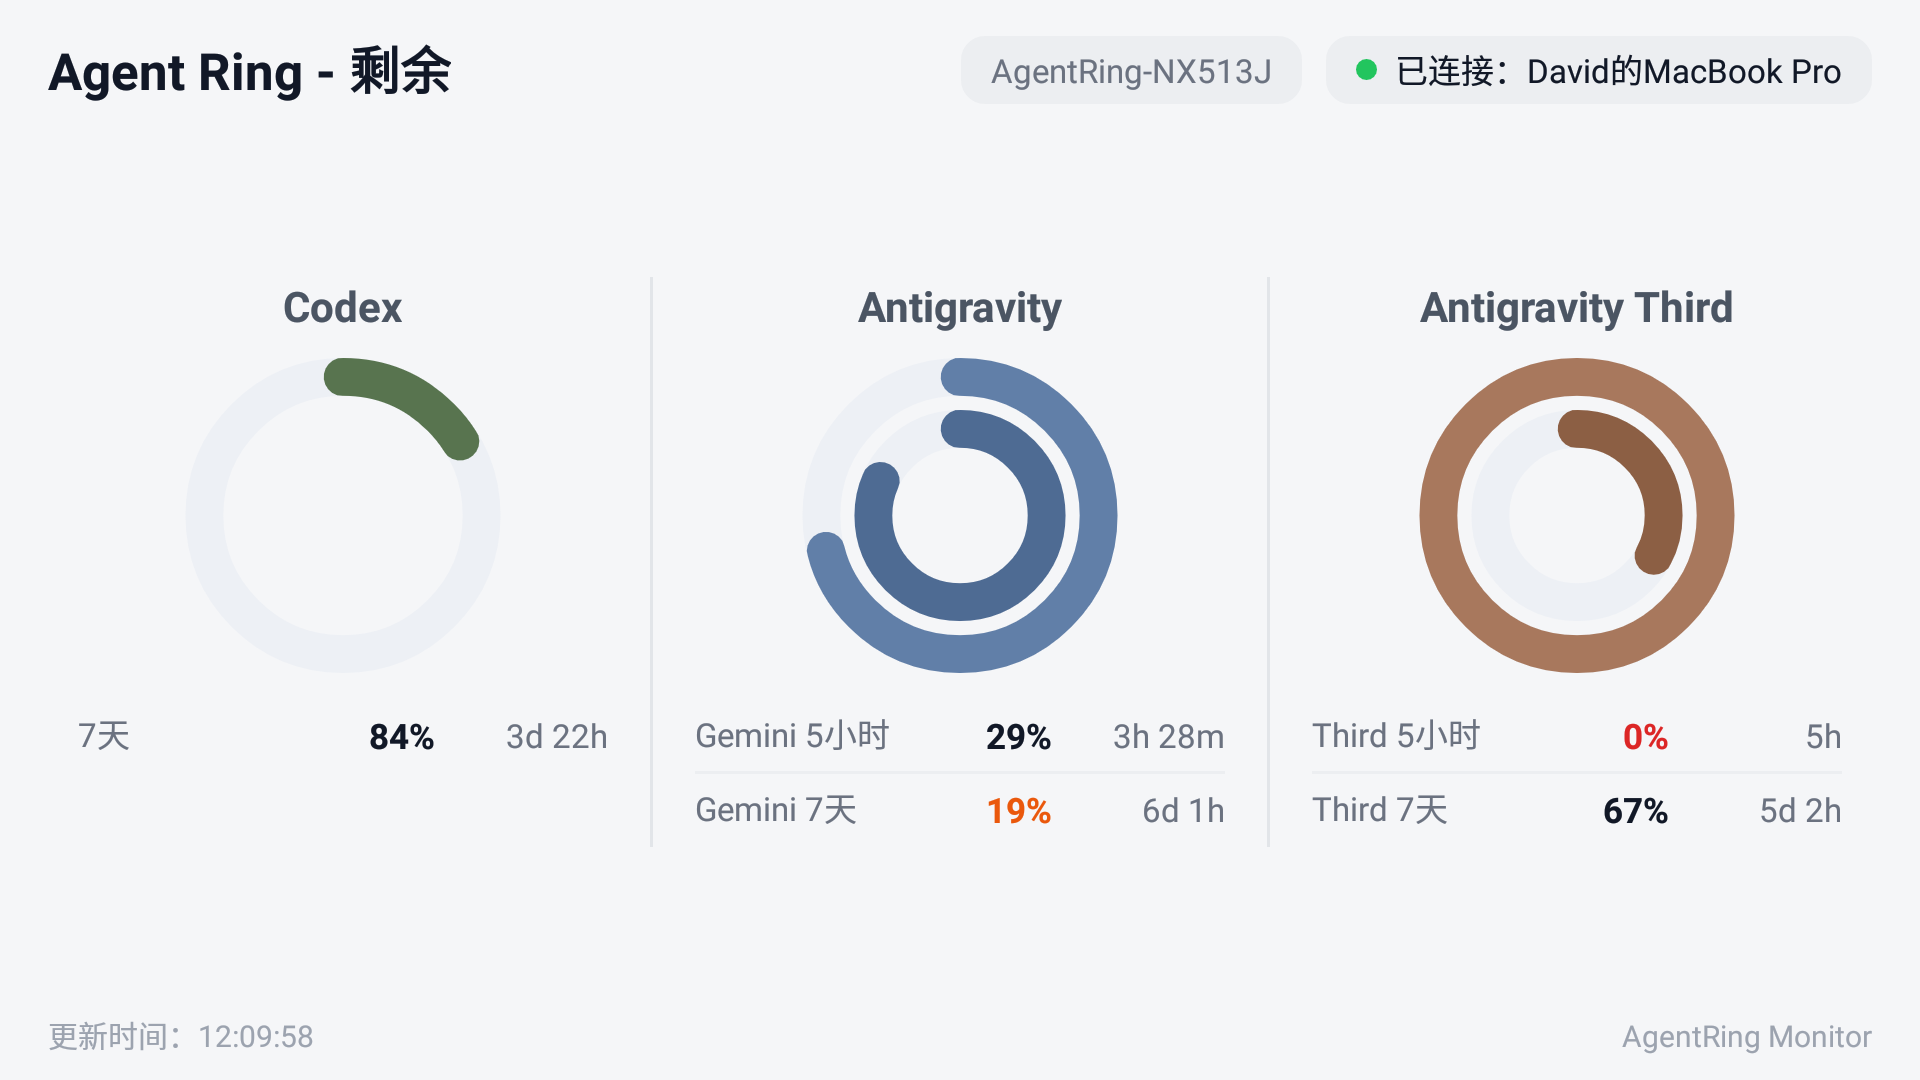
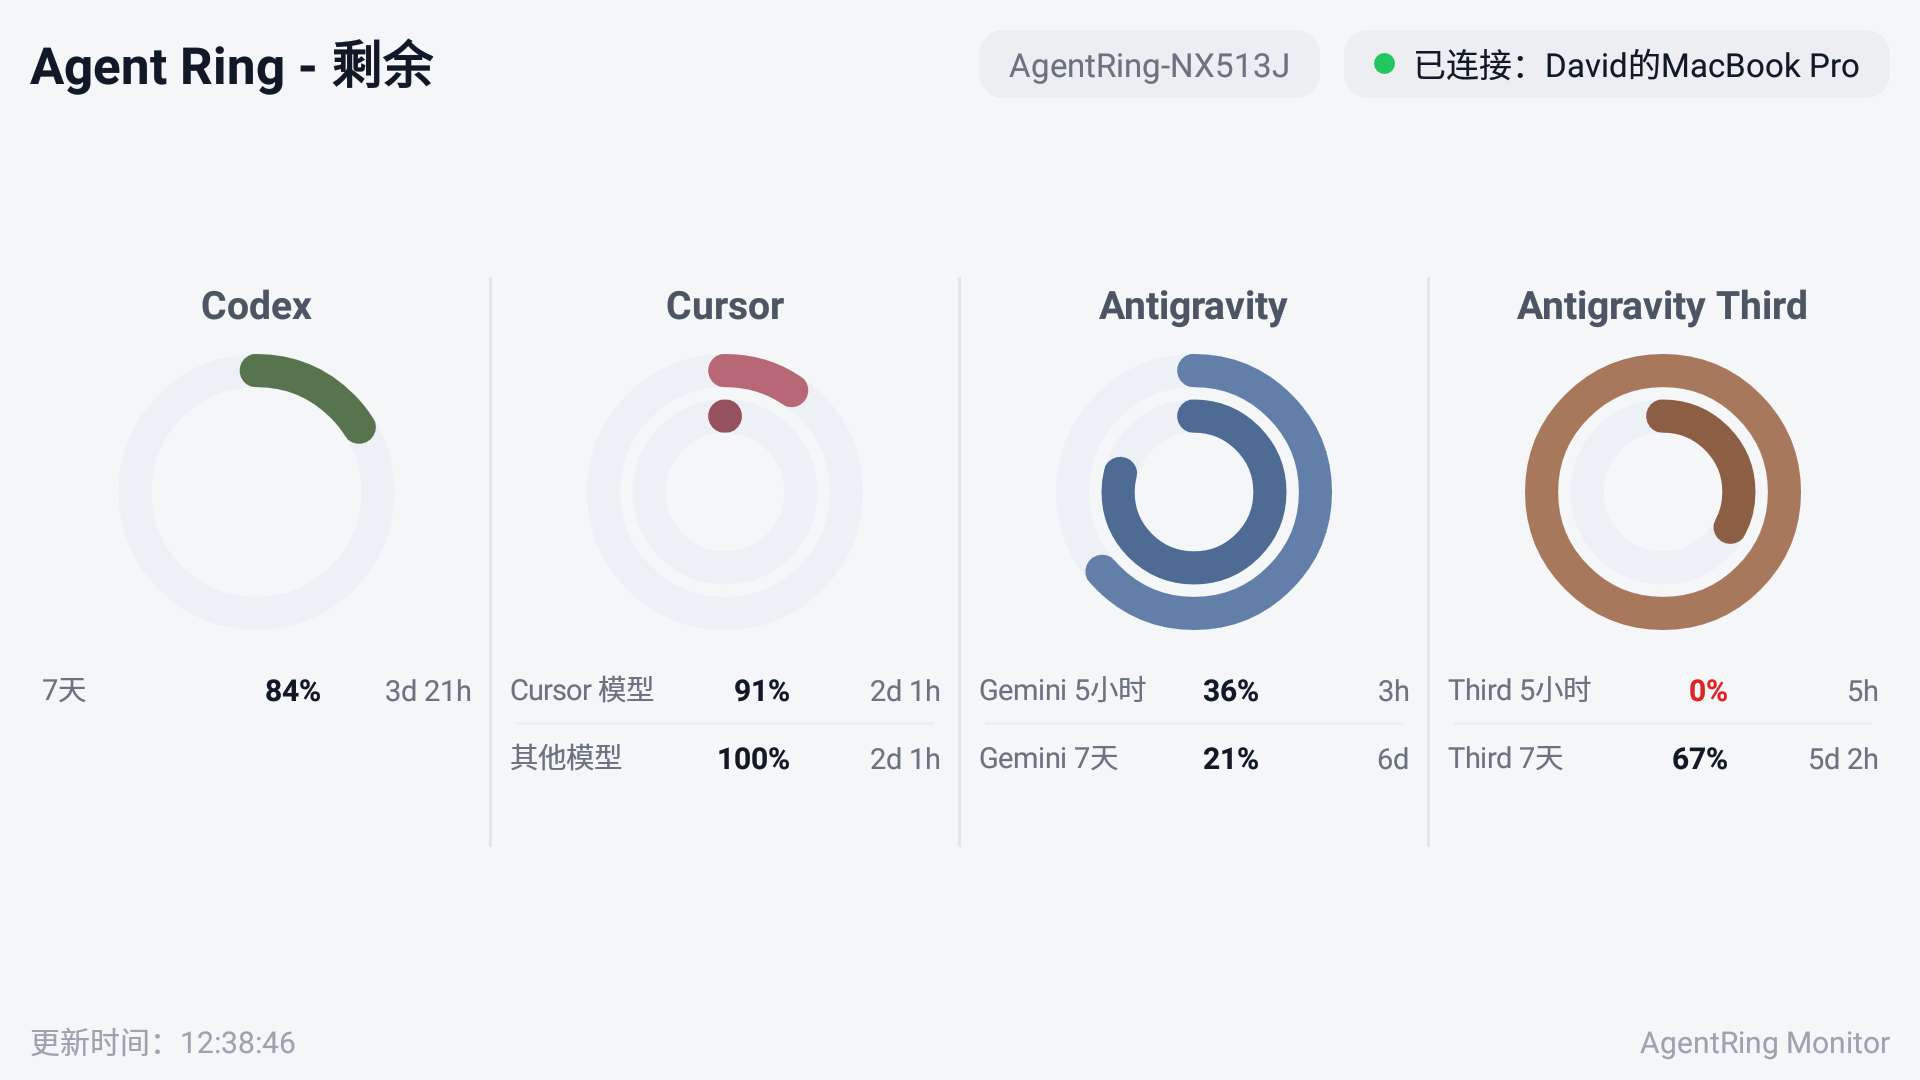
perf: add state change detection, spring animation, and optimize 4-column spacing

diff --git a/app/src/main/java/app/agentring/android/ui/MainActivity.kt b/app/src/main/java/app/agentring/android/ui/MainActivity.kt
@@ -177,25 +177,36 @@ class MainActivity : AppCompatActivity(), BluetoothServerManager.Listener {
     }
 
     private var cachedProviders: List<ProviderData> = emptyList()
+    private val activeColumnBindings = mutableListOf<ItemProviderColumnBinding>()
 
     override fun onDataReceived(payload: SyncPayload) {
         val providers = payload.providers
         if (providers.isEmpty()) {
             binding.emptyStateLayout.visibility = View.VISIBLE
             binding.columnsContainer.visibility = View.GONE
+            cachedProviders = emptyList()
+            activeColumnBindings.clear()
             return
         }
 
         binding.emptyStateLayout.visibility = View.GONE
         binding.columnsContainer.visibility = View.VISIBLE
-        binding.lastUpdatedText.text = getString(R.string.last_updated, timeFormat.format(Date()))
 
+        // 状态判断：副屏作为展示设备，只有跟上次数据产生实质变化时，才更新界面与动效
+        if (cachedProviders.isNotEmpty() && providers == cachedProviders) {
+            // 数据未发生任何变化，无需重刷界面，不重跑动画，直接跳过
+            return
+        }
+
+        binding.lastUpdatedText.text = getString(R.string.last_updated, timeFormat.format(Date()))
         renderDashboard(providers)
     }
 
     override fun onConfigurationChanged(newConfig: Configuration) {
         super.onConfigurationChanged(newConfig)
         if (cachedProviders.isNotEmpty()) {
+            // 屏幕旋转时强制重新构建视图排版
+            activeColumnBindings.clear()
             renderDashboard(cachedProviders)
         }
     }
@@ -203,18 +214,12 @@ class MainActivity : AppCompatActivity(), BluetoothServerManager.Listener {
     /**
      * 需求：不要卡片模式，直接绘图分割，不需要交互，全部横向列在界面上，一屏展示所有信息。
      * 根据项目多少决定环的大小，动态缩放以适应屏幕。
+     * 支持列视图直接复用：避免全屏 removeAllViews 导致的重绘闪烁与圆环从 0 冲顶。
      */
     private fun renderDashboard(providers: List<ProviderData>) {
-        cachedProviders = providers
         val container = binding.columnsContainer
-        container.removeAllViews()
-
         val count = providers.size
-        // 根据项目多少决定环高度：
-        // 1项 -> ~140dp
-        // 2项 -> ~120dp
-        // 3项 -> ~105dp
-        // 4项及以上 -> ~92dp
+
         val ringHeightDp = when (count) {
             1 -> 140
             2 -> 120
@@ -222,27 +227,44 @@ class MainActivity : AppCompatActivity(), BluetoothServerManager.Listener {
             else -> 92
         }
 
-        for (i in providers.indices) {
-            val provider = providers[i]
+        // 检查已有列结构是否可直接复用（列数量与厂商 ID 顺序一致）
+        val canReuseViews = activeColumnBindings.size == count &&
+            cachedProviders.map { it.id } == providers.map { it.id }
 
-            // 厂商列之间的细垂直分割线（仿 macOS agentRing ProviderDivider）
-            if (i > 0) {
-                val divider = View(this).apply {
-                    layoutParams = LinearLayout.LayoutParams(dpToPx(1), dpToPx(190)).apply {
-                        gravity = android.view.Gravity.CENTER_VERTICAL
-                        val marginH = dpToPx(4)
-                        leftMargin = marginH
-                        rightMargin = marginH
+        if (!canReuseViews) {
+            container.removeAllViews()
+            activeColumnBindings.clear()
+
+            for (i in providers.indices) {
+                val provider = providers[i]
+
+                // 厂商列之间的细垂直分割线（仿 macOS agentRing ProviderDivider）
+                if (i > 0) {
+                    val divider = View(this).apply {
+                        val marginH = if (count >= 4) dpToPx(2) else dpToPx(4)
+                        layoutParams = LinearLayout.LayoutParams(dpToPx(1), dpToPx(190)).apply {
+                            gravity = android.view.Gravity.CENTER_VERTICAL
+                            leftMargin = marginH
+                            rightMargin = marginH
+                        }
+                        setBackgroundColor(ContextCompat.getColor(this@MainActivity, R.color.divider_line))
                     }
-                    setBackgroundColor(ContextCompat.getColor(this@MainActivity, R.color.divider_line))
+                    container.addView(divider)
                 }
-                container.addView(divider)
-            }
 
-            val columnBinding = ItemProviderColumnBinding.inflate(layoutInflater, container, false)
-            bindProviderColumn(columnBinding, provider, count, ringHeightDp)
-            container.addView(columnBinding.root)
+                val columnBinding = ItemProviderColumnBinding.inflate(layoutInflater, container, false)
+                activeColumnBindings.add(columnBinding)
+                bindProviderColumn(columnBinding, provider, count, ringHeightDp)
+                container.addView(columnBinding.root)
+            }
+        } else {
+            // 列视图结构未变，原地增量更新数值与动画，圆环平滑从当前角度弹簧过渡到新角度
+            for (i in providers.indices) {
+                bindProviderColumn(activeColumnBindings[i], providers[i], count, ringHeightDp)
+            }
         }
+
+        cachedProviders = providers
     }
 
     private fun bindProviderColumn(
@@ -323,9 +345,9 @@ class MainActivity : AppCompatActivity(), BluetoothServerManager.Listener {
                 // 自适应字号
                 when {
                     totalCount >= 4 -> {
-                        rowBinding.rowLabel.textSize = 10f
-                        rowBinding.rowPercent.textSize = 10.5f
-                        rowBinding.rowReset.textSize = 10f
+                        rowBinding.rowLabel.textSize = 9.5f
+                        rowBinding.rowPercent.textSize = 10f
+                        rowBinding.rowReset.textSize = 9.5f
                     }
                     else -> {
                         rowBinding.rowLabel.textSize = 11f

diff --git a/app/src/main/java/app/agentring/android/ui/ActivityRingView.kt b/app/src/main/java/app/agentring/android/ui/ActivityRingView.kt
@@ -77,30 +77,53 @@ class ActivityRingView @JvmOverloads constructor(
             return
         }
 
-        primaryAnimator?.cancel()
-        primaryAnimator = ValueAnimator.ofFloat(displayPrimaryPercent, newPrimary).apply {
-            duration = 600
-            interpolator = DecelerateInterpolator()
-            addUpdateListener {
-                displayPrimaryPercent = it.animatedValue as Float
-                invalidate()
-            }
-            start()
-        }
-        targetPrimaryPercent = newPrimary
-
-        if (newSecondary != null) {
-            secondaryAnimator?.cancel()
-            secondaryAnimator = ValueAnimator.ofFloat(displaySecondaryPercent, newSecondary).apply {
-                duration = 600
-                interpolator = DecelerateInterpolator()
+        // 仅在目标值发生实质变化时触发动画，避免重复刷新导致的频繁闪烁
+        if (Math.abs(newPrimary - targetPrimaryPercent) > 0.05f || displayPrimaryPercent == 0f) {
+            primaryAnimator?.cancel()
+            primaryAnimator = ValueAnimator.ofFloat(displayPrimaryPercent, newPrimary).apply {
+                duration = 500
+                interpolator = AppleSpringInterpolator()
                 addUpdateListener {
-                    displaySecondaryPercent = it.animatedValue as Float
+                    displayPrimaryPercent = it.animatedValue as Float
                     invalidate()
                 }
                 start()
             }
-            targetSecondaryPercent = newSecondary
+            targetPrimaryPercent = newPrimary
+        }
+
+        if (newSecondary != null) {
+            if (Math.abs(newSecondary - targetSecondaryPercent) > 0.05f || displaySecondaryPercent == 0f) {
+                secondaryAnimator?.cancel()
+                secondaryAnimator = ValueAnimator.ofFloat(displaySecondaryPercent, newSecondary).apply {
+                    duration = 500
+                    interpolator = AppleSpringInterpolator()
+                    addUpdateListener {
+                        displaySecondaryPercent = it.animatedValue as Float
+                        invalidate()
+                    }
+                    start()
+                }
+                targetSecondaryPercent = newSecondary
+            }
+        }
+    }
+
+    /**
+     * 仿 macOS / Apple Watch 物理弹簧插值器
+     * 与 SwiftUI .spring(response: 0.42, dampingFraction: 0.78) 动力学特性严格一致：
+     * 起始平滑发力，自然阻尼收敛，带有 ~2% 极轻微回弹质感。
+     */
+    private class AppleSpringInterpolator : android.view.animation.Interpolator {
+        override fun getInterpolation(input: Float): Float {
+            if (input <= 0f) return 0f
+            if (input >= 1f) return 1f
+            val t = input.toDouble() * 0.46
+            val omegaD = 9.36
+            val decay = 11.67
+            val env = Math.exp(-decay * t)
+            val v = 1.0 - env * (Math.cos(omegaD * t) + (decay / omegaD) * Math.sin(omegaD * t))
+            return v.toFloat()
         }
     }
 
